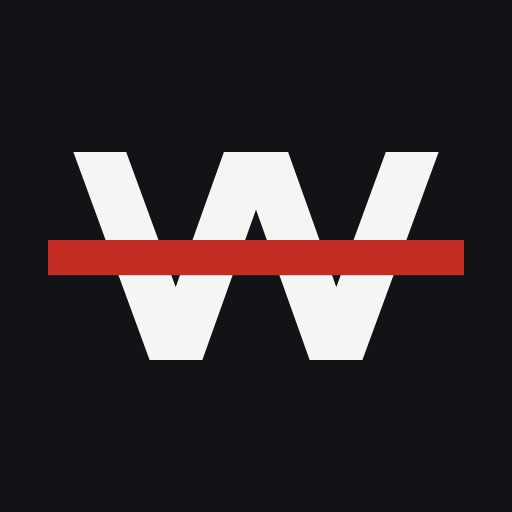
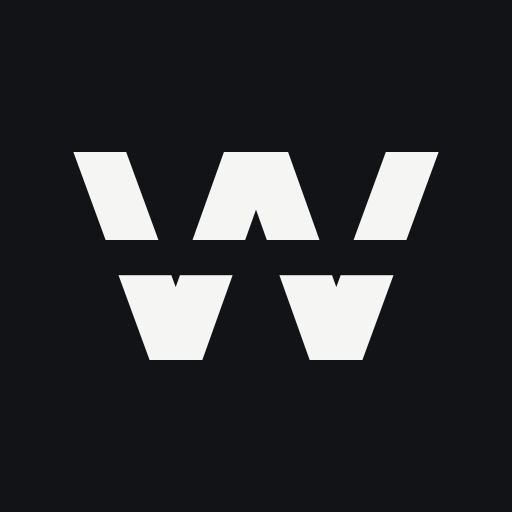
Switch the WealthWire mark to the strike-through W
The red wire bar is replaced by a horizontal cut through the W, drawn
as a clip so the mark works on any background.

Changed region(s): [[0.0938, 0.4688, 0.9062, 0.5625]]

diff --git a/app/page.js b/app/page.js
@@ -183,14 +183,19 @@ function VocsetMark() {
 }
 
 // The WealthWire mark, Swiss Grid edition: an upright W cut flat to the grid
-// on an ink tile, crossed by the signal-red wire.
+// on an ink tile, with a horizontal cut through it (the wire).
 function Logo({ size = 28 }) {
   return (
     <svg
       width={size} height={size} viewBox="0 0 64 64" aria-hidden="true"
       style={{ display: 'block', flexShrink: 0 }}
     >
-      <defs><clipPath id="ww-mark-clip"><rect x="0" y="19" width="64" height="26" /></clipPath></defs>
+      <defs>
+        <clipPath id="ww-mark-clip">
+          <rect x="0" y="19" width="64" height="11" />
+          <rect x="0" y="34.4" width="64" height="10.6" />
+        </clipPath>
+      </defs>
       <rect width="64" height="64" fill={C.ink} />
       <path
         clipPath="url(#ww-mark-clip)"
@@ -198,7 +203,6 @@ function Logo({ size = 28 }) {
         fill="none" stroke={C.paper} strokeWidth="6.2"
         strokeLinecap="butt" strokeLinejoin="miter" strokeMiterlimit="20"
       />
-      <rect x="6" y="30" width="52" height="4.4" fill={C.brand} />
     </svg>
   );
 }
